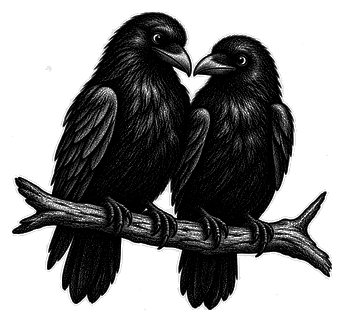
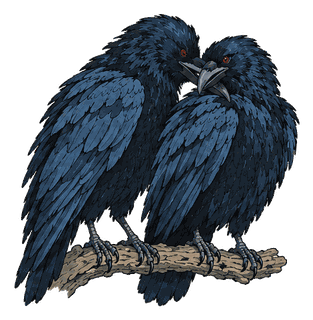
Raben im Holzschnitt-Stil: farbige Raben auf leeren Seiten, neue Mini-Silhouetten
Leere Seiten zeigen die Raben jetzt farbig statt als einfarbige Maske,
im Dunkeln weiter mit heller Umrandung. Mini-Raben und Kopfzeile sind
Silhouetten aus denselben Zeichnungen. Cache-Version hm-15.

Claude-Session: https://claude.ai/code/session_01QNLhawG8QPjZU5XF7gueUy

diff --git a/styles.css b/styles.css
@@ -228,20 +228,18 @@ button.item > svg { color:var(--faint); }
 .item .t b .who { margin-right:4px; vertical-align:1px; }
 .board .pin .who { margin-top:4px; }
 
-/* ---------- Leere Seiten: Raben-Zeichnungen von Anna als Maske, Farbe aus dem Thema ---------- */
+/* ---------- Leere Seiten: farbige Holzschnitt-Raben, im Dunkeln mit heller Umrandung (wie ein Aufkleber) ---------- */
 .empty-state { display:flex; flex-direction:column; align-items:center; text-align:center; gap:var(--s3); padding:var(--s6) var(--s4) var(--s5); color:var(--muted); }
 .empty-state p { margin:0; max-width:32ch; }
-/* Im Dunkeln: Zeichnung in Tinte mit klarer heller Umrandung (wie ein Aufkleber) statt invertiert. */
 .raven { display:block; position:relative; width:128px; height:128px; }
 .raven::before, .raven::after { content:""; position:absolute; inset:0; }
 .raven::before { display:none; background:var(--raven-edge, transparent);
   -webkit-mask:var(--raven-rand) center / contain no-repeat; mask:var(--raven-rand) center / contain no-repeat; }
-.raven::after { background:var(--raven-ink, var(--ink));
-  -webkit-mask:var(--raven) center / contain no-repeat; mask:var(--raven) center / contain no-repeat; }
-[data-theme="dark"] .raven { --raven-edge:#E4E2DB; --raven-ink:#111111; }
+.raven::after { background:var(--raven) center / contain no-repeat; }
+[data-theme="dark"] .raven { --raven-edge:#E4E2DB; }
 [data-theme="dark"] .raven::before { display:block; }
 @media (prefers-color-scheme: dark) {
-  :root:not([data-theme="light"]) .raven { --raven-edge:#E4E2DB; --raven-ink:#111111; }
+  :root:not([data-theme="light"]) .raven { --raven-edge:#E4E2DB; }
   :root:not([data-theme="light"]) .raven::before { display:block; }
 }
 

diff --git a/sw.js b/sw.js
@@ -1,5 +1,5 @@
 // Service Worker: App-Hülle offline verfügbar machen. Daten laufen nie über den Cache.
-const VERSION = 'hm-14';
+const VERSION = 'hm-15';
 const SHELL = [
   './', 'index.html', 'styles.css', 'manifest.webmanifest',
   'src/main.js', 'src/model.js', 'src/logic.js', 'src/storage.js', 'src/sync.js', 'src/texts.js', 'src/ui.js', 'src/raven.js',

diff --git a/README.md b/README.md
@@ -25,7 +25,7 @@ Familienplaner für zwei, benannt nach Odins Raben „Gedanke“ und „Erinneru
 - **Einkauf:** Einträge bearbeiten (Text, Menge, Bereich, Notiz), Vorschläge aus früheren Einkäufen beim Tippen, bekannte Sachen landen automatisch im zuletzt benutzten Bereich, Liste über das Teilen-Menü verschicken.
 - **Personen:** jede Person hat eine Farbe und ihren Anfangsbuchstaben, z. B. bei zuständig, wer etwas auf den Einkaufszettel gesetzt hat, bei Terminen und im Haushaltsplan.
 - **Suche** (Lupe oben) über Listen, Termine, Notizen, Kontakte, Geschenke, Essen, Ausgaben und Haushaltsplan.
-- **Leere Seiten** mit Raben-Zeichnungen von Anna.
+- **Leere Seiten** mit farbigen Raben im Holzschnitt-Stil (Vorlagen in Annas Sheets).
 - **Fremde Kalender (ICS)** unter Kalender → „fremde kalender“: z. B. Schulferien, Müllabfuhr, Arbeitskalender. Der eigene Server lädt sie (der Browser darf das meist nicht), die App rechnet Zeitzonen, Serien, Ausfälle und einzeln verschobene Termine um. Nur zum Ansehen.
 - **Apple-Kalender, beide Richtungen**: Ein iCloud-Kalender lässt sich über seinen öffentlichen Link einblenden (Anleitung in der App). Umgekehrt gibt es unter Kalender → „im apple-kalender anzeigen“ einen geheimen Abo-Link (`/api/hm/feed/<schlüssel>.ics`), mit dem die Termine von Hugin & Munin im Apple-Kalender erscheinen. Der Link lässt sich erneuern und abschalten. Abonnieren auf dem Gerät („Auf meinem Mac“ bzw. Kalender-Accounts auf dem iPhone), nicht in iCloud, weil nur das Gerät den Mac mini über Tailscale erreicht.
 - **Erinnerungen (Push):** morgens um 7:30 ein Überblick (Termine, fällige und überfällige Aufgaben, Geburtstage), 30 Minuten vor Terminen eine Erinnerung. Verschickt werden sie von der [Mac-App](docs/MAC-APP.md); ein einfacher PocketBase-Server kann das nicht. Auf dem iPhone nur, wenn die App auf dem Home-Bildschirm liegt (ab iOS 16.4).
